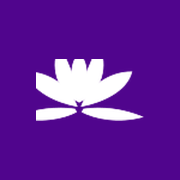
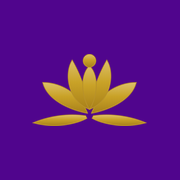
Coloured lotus in the nav, and the sun rises above the arch
Chris's notes. The nav mark was the white variant, which loses its petal
detail at 30px; it is now the full-colour mark on a light chip, because the
purple petals need a light ground to read against the purple nav. The hero
sunburst moves from behind the portrait to above it, and the portrait sits
lower, so the sunrise is visible instead of being covered. The portrait
stays. Regenerated from the corrected mark, which was clipped at both ends
by a viewBox that started at the wrong origin.

Changed region(s): [[0.1667, 0.2778, 0.8333, 0.7222]]

diff --git a/index.html b/index.html
@@ -53,7 +53,7 @@
     display:flex;align-items:center;justify-content:space-between;gap:16px;
   }
   .brand{display:flex;align-items:center;gap:13px;text-decoration:none;}
-  .brand .logomark{height:60px;width:auto;flex:0 0 auto;display:block;}
+  .brand .logomark{height:30px;width:auto;flex:0 0 auto;display:block;background:#fbf7f0;border-radius:9px;padding:7px 9px;box-sizing:content-box;}
   /* The full lockup sits on the image's own ground so the glow meets nothing. */
   .brandband{background:#4c0686;padding:36px 0 30px;text-align:center;}
   .brandband img{width:min(460px,78vw);height:auto;display:inline-block;}
@@ -94,7 +94,7 @@
      (the wave, the sunburst) and it reads as a doorway the sunrise comes through. */
   .hero-grid{display:grid;grid-template-columns:minmax(0,1fr) 344px;gap:56px;align-items:center;}
   .hero-copy{min-width:0;}
-  .hero-photo{position:relative;}
+  .hero-photo{position:relative;margin-top:76px;}
   .hero-photo::before{
     content:"";position:absolute;left:-16%;right:-16%;top:-14%;bottom:-10%;z-index:-1;
     background:radial-gradient(ellipse at 50% 42%, rgba(255,232,158,.52) 0%, rgba(252,214,124,.20) 46%, transparent 70%);
@@ -117,7 +117,7 @@
      It is a zero-size anchor centred on the portrait, so the glow and the
      rays stay locked to her at every width instead of drifting across the
      words. The hero clips it, so nothing escapes the section. */
-  .hero-deco{position:absolute;left:50%;top:44%;width:0;height:0;pointer-events:none;z-index:0;}
+  .hero-deco{position:absolute;left:50%;top:13%;width:0;height:0;pointer-events:none;z-index:0;}
   .sunburst{
     --w:660px;
     position:absolute;left:calc(var(--w) / -2);top:calc(var(--w) / -2);
@@ -284,7 +284,7 @@
     section{padding:40px 0;}
     nav .navin{padding:14px 18px;flex-wrap:wrap;}
     .brand .word{font-size:25px;}
-    .brand .logomark{height:46px;width:auto;}
+    .brand .logomark{height:24px;width:auto;border-radius:7px;padding:6px 7px;}
     /* Thumb zone: primary buttons sit on the RIGHT on a phone so a right
        thumb reaches them without crossing the screen. Set on the button
        itself, never on the container, so body copy stays left-aligned. */
@@ -403,7 +403,7 @@
 <nav>
   <div class="navin">
     <a class="brand" href="./">
-      <img class="logomark" src="logo-mark.png" alt="" width="105" height="60">
+      <img class="logomark" src="logo-mark.png" alt="" width="48" height="30">
       <span class="word">Rise and Balance</span>
     </a>
     <a class="btn" href="#book">Book the conversation</a>
